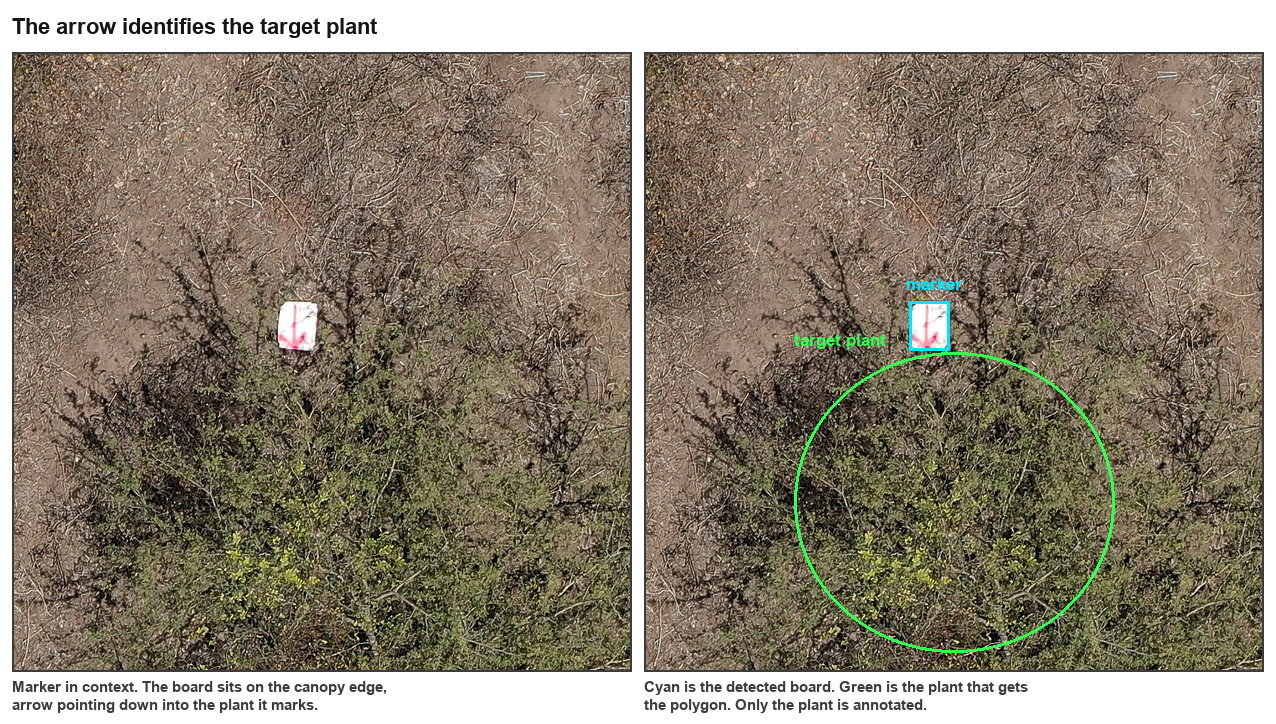
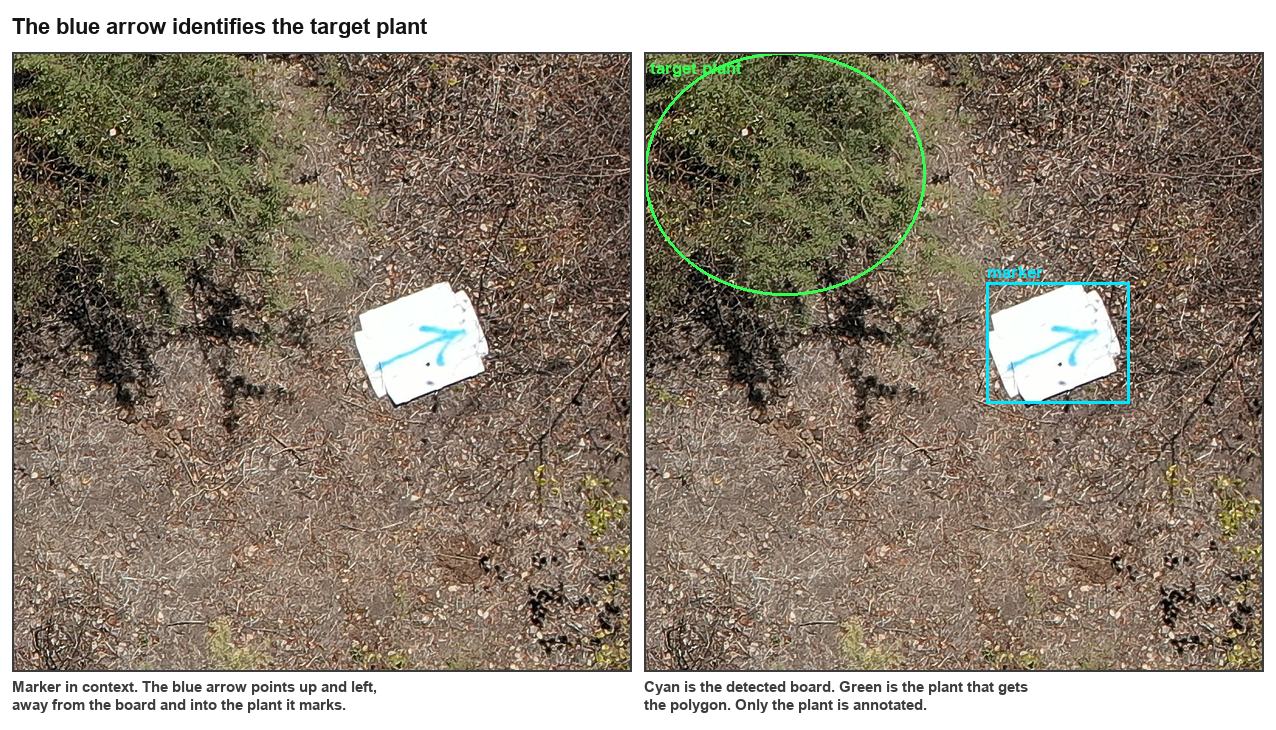
Rebuild the context figure around a blue arrow board
The context figure used a pink board, which contradicts the blue-only ground
truth rule. It now uses a blue board from DJI_20251118125709_0656 whose arrow
points up and left into the shrub it marks.

The candidate was picked by measuring canopy cover around every strong blue
marker rather than by eye, and the target plant outline is derived from an
excess-green blob inside the crop window instead of hand-placed coordinates.

diff --git a/annotation/figures/make_figures.py b/annotation/figures/make_figures.py
@@ -50,27 +50,53 @@ for i,(key,title,sub) in enumerate(classes):
 fig.save(OUT/'marker_classes.png')
 print('marker_classes.png', fig.size)
 
-# ---------- Figure 2: marker in context, arrow points at the plant ----------
-src='DJI_20251118124919_0185.JPG'
-im=Image.open(D/'raw'/src).convert('RGB')
-ctx=im.crop((4600,2300,5600,3300)).resize((620,620),Image.LANCZOS)
-W2=620*2+PAD*3; H2=HDR+620+CAP+PAD
+# ---------- Figure 2: blue marker in context, arrow points at the plant ----------
+import numpy as np
+from scipy import ndimage as ndi
+
+SRC, BLOB = 'DJI_20251118125709_0656.JPG', '630'
+m=[r for r in rows if r['source']==SRC and r['blob']==BLOB][0]
+im=Image.open(D/'raw'/SRC).convert('RGB')
+X0,Y0,X1,Y1 = 5950,1750,6750,2550          # window holding both board and plant
+SIDE=620; k=SIDE/(X1-X0)
+ctx=im.crop((X0,Y0,X1,Y1)).resize((SIDE,SIDE),Image.LANCZOS)
+
+# locate the marked plant by excess green inside the window, left of the board
+a=np.asarray(ctx).astype(np.int16)
+R,G,B=a[...,0],a[...,1],a[...,2]
+veg=ndi.binary_opening((2*G-R-B)>18, np.ones((9,9),bool))
+lab,n=ndi.label(veg)
+best=None
+if n:
+    areas=ndi.sum_labels(veg,lab,index=np.arange(1,n+1))
+    for i in np.argsort(areas)[::-1]:
+        sl=ndi.find_objects(lab)[i]
+        if areas[i]>3000: best=sl; break
+
+mb=[(int(m['x0'])-X0)*k,(int(m['y0'])-Y0)*k,(int(m['x1'])-X0)*k,(int(m['y1'])-Y0)*k]
+
+PADX=12; HDR=52
+W2=SIDE*2+PADX*3; H2=HDR+SIDE+46+PADX
 fig2=Image.new('RGB',(W2,H2),(255,255,255)); d2=ImageDraw.Draw(fig2)
-d2.text((PAD,14),"The arrow identifies the target plant",fill=(20,20,20),font=font(22))
-fig2.paste(ctx,(PAD,HDR))
-d2.rectangle([PAD,HDR,PAD+619,HDR+619],outline=(60,60,60),width=2)
-d2.text((PAD,HDR+626),"Marker in context. The board sits on the canopy edge,",fill=(60,60,60),font=font(15))
-d2.text((PAD,HDR+644),"arrow pointing down into the plant it marks.",fill=(60,60,60),font=font(15))
-# annotated copy
+d2.text((PADX,14),"The blue arrow identifies the target plant",fill=(20,20,20),font=font(22))
+fig2.paste(ctx,(PADX,HDR))
+d2.rectangle([PADX,HDR,PADX+SIDE-1,HDR+SIDE-1],outline=(60,60,60),width=2)
+d2.text((PADX,HDR+SIDE+6),"Marker in context. The blue arrow points up and left,",fill=(60,60,60),font=font(15))
+d2.text((PADX,HDR+SIDE+24),"away from the board and into the plant it marks.",fill=(60,60,60),font=font(15))
+
 ann=ctx.copy(); da=ImageDraw.Draw(ann)
-da.rectangle([(5029-4600)*0.62,(2703-2300)*0.62,(5093-4600)*0.62,(2781-2300)*0.62],outline=(0,230,255),width=3)
-da.ellipse([150,300,470,600],outline=(50,255,80),width=3)
-da.text((150,278),"target plant",fill=(50,255,80),font=font(17))
-da.text((262,222),"marker",fill=(0,230,255),font=font(17))
-x2=PAD*2+620
+da.rectangle(mb,outline=(0,230,255),width=3)
+da.text((mb[0],max(2,mb[1]-20)),"marker",fill=(0,230,255),font=font(17))
+if best:
+    ys,xs=best
+    da.ellipse([xs.start,ys.start,xs.stop,ys.stop],outline=(50,255,80),width=3)
+    # keep the label on-canvas when the blob runs to the top edge
+    ty = ys.start-20 if ys.start>=22 else ys.start+6
+    da.text((xs.start+6,ty),"target plant",fill=(50,255,80),font=font(17))
+x2=PADX*2+SIDE
 fig2.paste(ann,(x2,HDR))
-d2.rectangle([x2,HDR,x2+619,HDR+619],outline=(60,60,60),width=2)
-d2.text((x2,HDR+626),"Cyan is the detected board. Green is the plant that gets",fill=(60,60,60),font=font(15))
-d2.text((x2,HDR+644),"the polygon. Only the plant is annotated.",fill=(60,60,60),font=font(15))
+d2.rectangle([x2,HDR,x2+SIDE-1,HDR+SIDE-1],outline=(60,60,60),width=2)
+d2.text((x2,HDR+SIDE+6),"Cyan is the detected board. Green is the plant that gets",fill=(60,60,60),font=font(15))
+d2.text((x2,HDR+SIDE+24),"the polygon. Only the plant is annotated.",fill=(60,60,60),font=font(15))
 fig2.save(OUT/'marker_in_context.png')
 print('marker_in_context.png', fig2.size)
